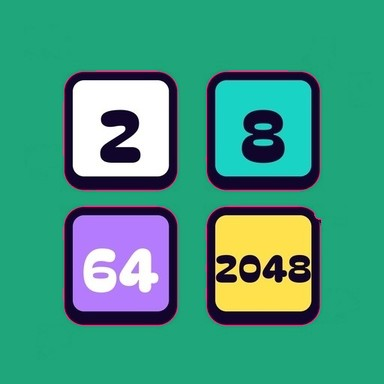
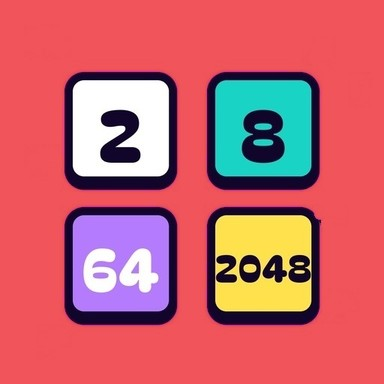
Icone dei giochi: dodici fondi Pop invece di sei (giallo, azzurro, turchese, rosso, lime e magenta in più), mai due uguali vicini né del colore del disegno

diff --git a/apps/app/src/ui/theme.ts b/apps/app/src/ui/theme.ts
@@ -61,7 +61,7 @@ export const shellColors: typeof colors = {
 export const SOFT = '0px 8px 22px rgba(0,0,0,0.32)';
 
 /** I colori pieni delle tessere Pop: si alternano nelle icone dei giochi e nei posti. */
-export const POP_TILES = ['#5B3FE0', '#FF4F8B', '#1FA67A', '#3D7BFF', '#FF8A3D', '#2B2E36'] as const;
+export const POP_TILES = ['#5B3FE0', '#FF4F8B', '#1FA67A', '#3D7BFF', '#FF8A3D', '#2B2E36', '#FFC933', '#33B5F2', '#14B8A6', '#F2545B', '#7ED957', '#C04BE0'] as const;
 
 /** Colore di ogni categoria: è lo sfondo delle copertine e dei filtri in home (palette brand-alt, SPEC §7 e §9). */
 export const CATEGORY_COLORS = { carte: '#1FA67A', tavolo: '#5B3FE0', dadi: '#FFC933', abilita: '#FF4F8B', party: '#2B2E36' } as const;

diff --git a/apps/app/src/ui/GameArt.tsx b/apps/app/src/ui/GameArt.tsx
@@ -2,7 +2,8 @@ import { Image, View, type ImageSourcePropType } from 'react-native';
 
 /**
  * Le icone dei giochi: le copertine di Tavolata ricolorate nello stile Pop (21/11/2026).
- * I fondi pieni si alternano tra viola, rosa, verde, blu, arancio e carbone, nell'ordine del catalogo.
+ * I fondi pieni si alternano tra dodici colori Pop (POP_TILES in theme.ts), scelti perché due vicini
+ * non siano mai uguali e il fondo non sia del colore del disegno.
  */
 const ART: Record<string, ImageSourcePropType> = {
   scopa: require('../../assets/games/scopa.jpg'),
